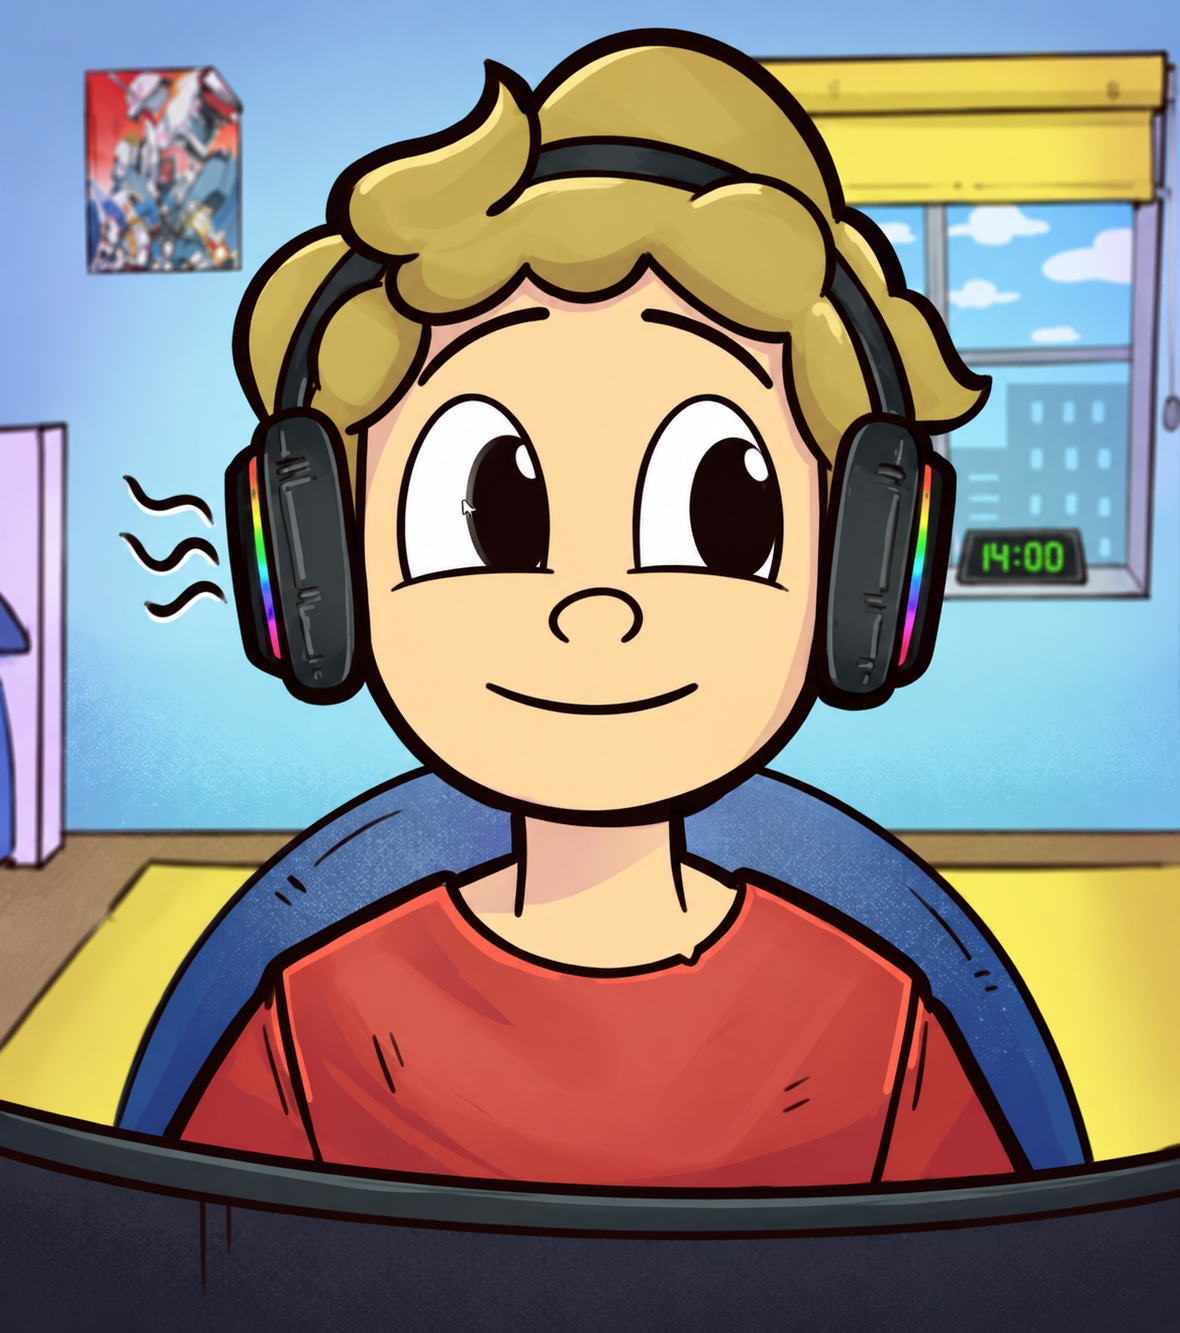
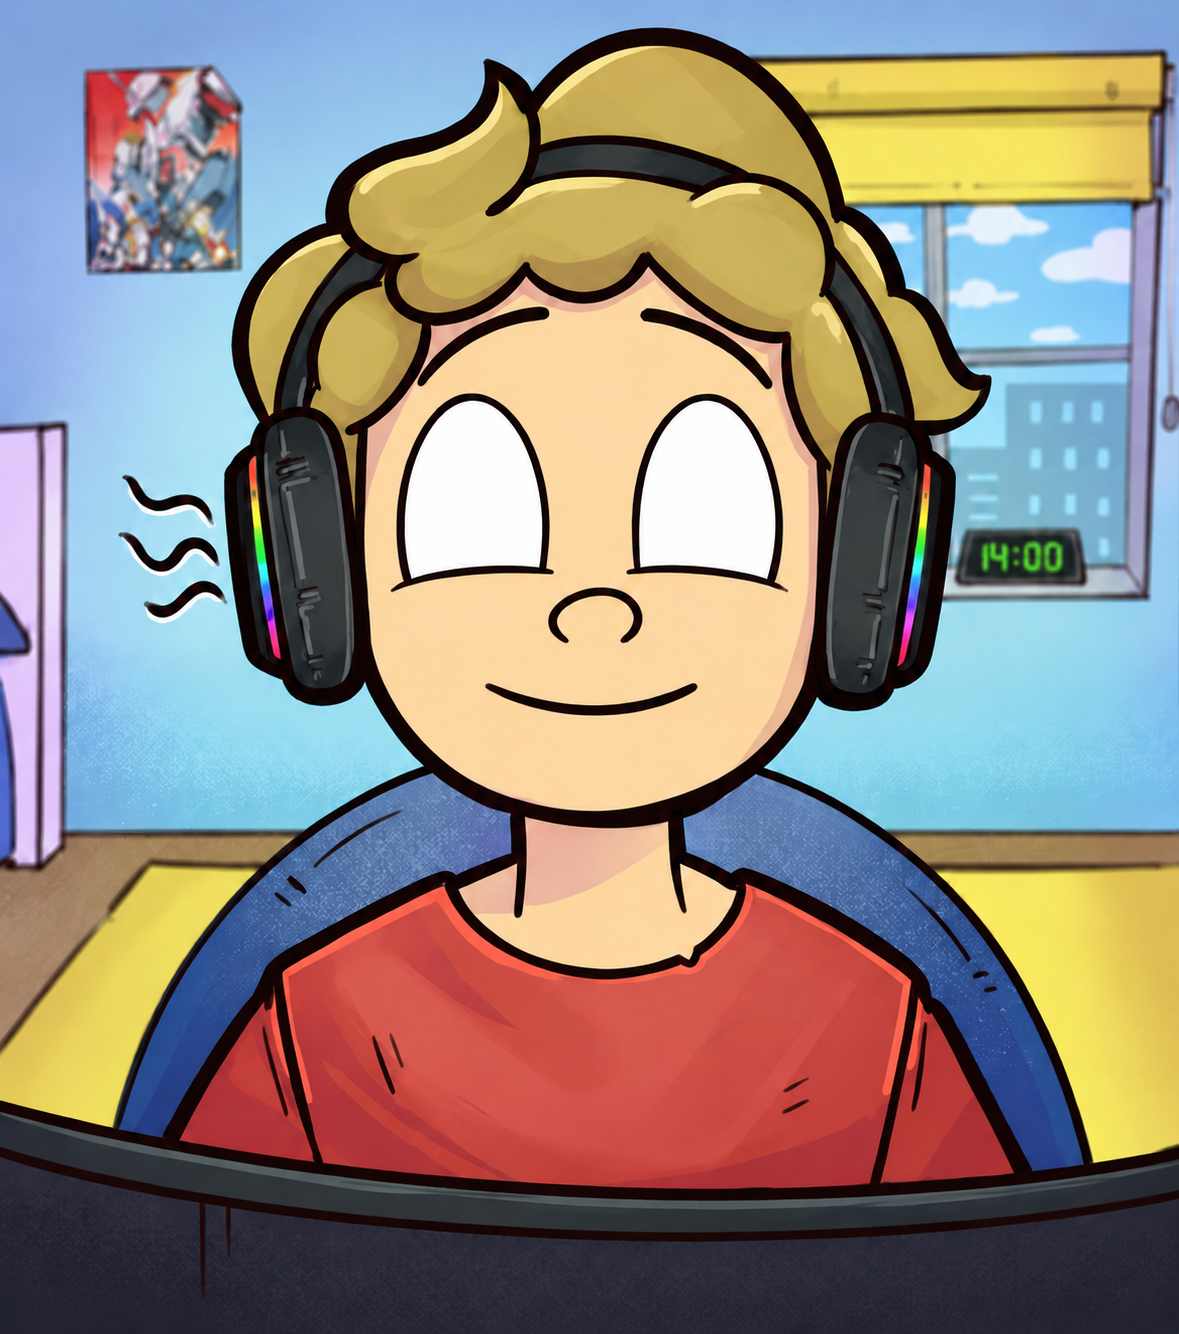
Use pupil-free contact portrait

diff --git a/src/styles.css b/src/styles.css
@@ -326,7 +326,7 @@ img { display: block; max-width: 100%; }
   margin: 0;
   border: 1px solid var(--line);
   background: var(--surface);
-  aspect-ratio: 1180 / 1333;
+  aspect-ratio: 1179 / 1334;
 }
 .tracking-portrait > img {
   width: 100%;
@@ -335,15 +335,14 @@ img { display: block; max-width: 100%; }
 }
 .tracking-portrait__eye {
   position: absolute;
-  top: 30%;
+  top: 29.6%;
   overflow: hidden;
-  width: 11.5%;
-  height: 14%;
+  width: 13.2%;
+  height: 14.7%;
   border-radius: 48% 52% 46% 54%;
-  background: #f7f4ef;
 }
-.tracking-portrait__eye--left { left: 34.75%; transform: rotate(-2deg); }
-.tracking-portrait__eye--right { left: 54.75%; transform: rotate(2deg); }
+.tracking-portrait__eye--left { left: 33.6%; transform: rotate(-2deg); }
+.tracking-portrait__eye--right { left: 53.7%; transform: rotate(2deg); }
 .tracking-portrait__eye i {
   position: absolute;
   top: 50%;
@@ -365,14 +364,6 @@ img { display: block; max-width: 100%; }
   border-radius: 50%;
   background: #fff;
   content: "";
-}
-.tracking-portrait__eye-contour {
-  position: absolute;
-  z-index: 1;
-  inset: 0;
-  border: clamp(2px, 0.2vw, 3px) solid #210d0d;
-  border-radius: inherit;
-  pointer-events: none;
 }
 .contact__footer {
   display: grid;

diff --git a/src/components/TrackingPortrait.test.tsx b/src/components/TrackingPortrait.test.tsx
@@ -109,12 +109,11 @@ describe('TrackingPortrait', () => {
     });
   });
 
-  it('keeps the recreated eye whites behind a visible contour', () => {
-    const { container } = render(<TrackingPortrait alt="Character at a computer" />);
-    const leftEye = container.querySelector<HTMLElement>('.tracking-portrait__eye--left')!;
-    const contour = screen.getByTestId('eye-contour-left');
+  it('uses the eye whites and contours from the supplied artwork', () => {
+    render(<TrackingPortrait alt="Character at a computer" />);
 
-    expect(leftEye.lastElementChild).toBe(contour);
+    expect(screen.queryByTestId('eye-contour-left')).not.toBeInTheDocument();
+    expect(screen.queryByTestId('eye-contour-right')).not.toBeInTheDocument();
   });
 
 });

diff --git a/src/components/TrackingPortrait.tsx b/src/components/TrackingPortrait.tsx
@@ -91,7 +91,6 @@ export function TrackingPortrait({ alt }: TrackingPortraitProps) {
           ref={(node) => { pupilRefs.current[0] = node; }}
           style={{ transform: centeredTransform }}
         />
-        <span className="tracking-portrait__eye-contour" data-testid="eye-contour-left" />
       </span>
       <span
         className="tracking-portrait__eye tracking-portrait__eye--right"
@@ -103,7 +102,6 @@ export function TrackingPortrait({ alt }: TrackingPortraitProps) {
           ref={(node) => { pupilRefs.current[1] = node; }}
           style={{ transform: centeredTransform }}
         />
-        <span className="tracking-portrait__eye-contour" data-testid="eye-contour-right" />
       </span>
     </figure>
   );

diff --git a/docs/superpowers/plans/2026-09-11-contact-portrait-eye-tracking.md b/docs/superpowers/plans/2026-09-11-contact-portrait-eye-tracking.md
@@ -4,7 +4,7 @@
 
 **Goal:** Add the supplied portrait to the contact section, preserve headline dominance with a `1.08` line height, and make layered pupils follow a fine pointer across the full page.
 
-**Architecture:** A focused `TrackingPortrait` component owns the image, centered decorative eye layers, per-eye cursor vectors, viewport-level event handling, animation-frame scheduling, and listener cleanup. `Contact` composes that component into a responsive asymmetric grid while locale files provide the image alternative text. Styling stays in the existing global stylesheet and uses the existing surface, line, spacing, and motion tokens.
+**Architecture:** A focused `TrackingPortrait` component owns the pupil-free image, two pupil-only layers positioned inside the artwork's existing eye contours, per-eye cursor vectors, viewport-level event handling, animation-frame scheduling, and listener cleanup. `Contact` composes that component into a responsive asymmetric grid while locale files provide the image alternative text. Styling stays in the existing global stylesheet and uses the existing surface, line, spacing, and motion tokens.
 
 **Tech Stack:** React 19, TypeScript, CSS/Tailwind v4 utilities, i18next, Vitest, Testing Library.
 
@@ -19,7 +19,7 @@
 
 - [x] **Step 1: Copy the supplied portrait into the public artwork directory**
 
-Copy `C:\Users\Vlad\AppData\Local\Temp\codex-clipboard-dfcf0531-0e10-481b-a10e-16b52e39389a.png` to `public/artworks/contact-portrait.png` without modifying the source file.
+Copy the final pupil-free source `C:\Users\Vlad\AppData\Local\Temp\codex-clipboard-09662688-9472-458b-9d8b-35e58228034f.png` to `public/artworks/contact-portrait.png` without modifying the source file.
 
 - [x] **Step 2: Write failing component tests**
 
@@ -27,11 +27,11 @@ Create tests that render `<TrackingPortrait alt="Character at a computer" />`, a
 
 ```tsx
 expect(screen.getByRole('img', { name: 'Character at a computer' })).toBeInTheDocument();
-fireEvent.pointerMove(screen.getByTestId('tracking-portrait'), { clientX: 1000, clientY: 1000 });
+fireEvent.pointerMove(window, { clientX: 50, clientY: 0, pointerType: 'mouse' });
 expect(screen.getByTestId('pupil-left')).toHaveStyle({
-  transform: 'translate3d(calc(-50% + 8px), calc(-50% + 8px), 0)',
+  transform: 'translate3d(calc(-50% + 1px), calc(-50% + -5px), 0)',
 });
-fireEvent.pointerLeave(screen.getByTestId('tracking-portrait'));
+fireEvent.blur(window);
 expect(screen.getByTestId('pupil-left')).toHaveStyle({
   transform: 'translate3d(-50%, -50%, 0)',
 });
@@ -45,47 +45,75 @@ Expected: FAIL because `TrackingPortrait.tsx` does not exist.
 
 - [x] **Step 4: Implement the minimal component**
 
-Implement a figure with `data-testid="tracking-portrait"`, the portrait image, and two `aria-hidden="true"` eye overlays. Install one window-level pointer listener, bail out unless fine hover matches and reduced motion does not, and reject touch pointer events. In one scheduled animation frame, derive a unit vector from each eye rectangle's center to the cursor, multiply it by the safe `6px` movement radius, and write a direct `translate3d` transform to the matching pupil. Cancel a pending frame during replacement and unmount. Reset both transforms to center on window blur, touch input, or reduced motion.
+Implement a figure with `data-testid="tracking-portrait"`, the pupil-free portrait image, and two `aria-hidden="true"` positioning boxes containing only the pupils. Install one window-level pointer listener, bail out unless fine hover matches and reduced motion does not, and reset on touch pointer events. In one scheduled animation frame, derive a unit vector from each eye rectangle's center to the cursor, multiply it by the safe `5px` movement radius, and write a direct `translate3d` transform to the matching pupil. Cancel a pending frame during replacement and unmount. Reset both transforms to center on window blur, touch input, or reduced motion.
 
 ```tsx
-type TrackingPortraitProps = { alt: string };
+import { useEffect, useRef } from 'react';
+import { assetPath } from '../content/assetPath';
 
-const clamp = (value: number) => Math.max(-1, Math.min(1, value));
+const centeredTransform = 'translate3d(-50%, -50%, 0)';
+const pupilTravel = 5;
 
-export function TrackingPortrait({ alt }: TrackingPortraitProps) {
-  const frameRef = useRef<HTMLElement>(null);
+export function TrackingPortrait({ alt }: { alt: string }) {
+  const eyeRefs = useRef<Array<HTMLSpanElement | null>>([]);
   const pupilRefs = useRef<Array<HTMLElement | null>>([]);
-  const rafRef = useRef<number | null>(null);
+  const animationFrameRef = useRef<number | null>(null);
 
-  const setOffset = (x: number, y: number) => {
-    const transform = x === 0 && y === 0
-      ? 'translate3d(-50%, -50%, 0)'
-      : `translate3d(calc(-50% + ${x}px), calc(-50% + ${y}px), 0)`;
-    pupilRefs.current.forEach((pupil) => {
-      if (pupil) pupil.style.transform = transform;
-    });
-  };
+  useEffect(() => {
+    const resetPupils = () => {
+      if (animationFrameRef.current !== null) cancelAnimationFrame(animationFrameRef.current);
+      animationFrameRef.current = null;
+      pupilRefs.current.forEach((pupil) => {
+        if (pupil) pupil.style.transform = centeredTransform;
+      });
+    };
 
-  const handlePointerMove = (event: React.PointerEvent<HTMLElement>) => {
-    if (!window.matchMedia('(hover: hover) and (pointer: fine)').matches ||
-        window.matchMedia('(prefers-reduced-motion: reduce)').matches) return;
-    const rect = event.currentTarget.getBoundingClientRect();
-    const x = clamp((event.clientX - (rect.left + rect.width / 2)) / (rect.width / 2));
-    const y = clamp((event.clientY - (rect.top + rect.height / 2)) / (rect.height / 2));
-    if (rafRef.current !== null) cancelAnimationFrame(rafRef.current);
-    rafRef.current = requestAnimationFrame(() => setOffset(Math.round(x * 8), Math.round(y * 8)));
-  };
+    const handlePointerMove = (event: PointerEvent) => {
+      const canTrack = event.pointerType !== 'touch'
+        && window.matchMedia('(hover: hover) and (pointer: fine)').matches
+        && !window.matchMedia('(prefers-reduced-motion: reduce)').matches;
+      if (!canTrack) return resetPupils();
+      if (animationFrameRef.current !== null) cancelAnimationFrame(animationFrameRef.current);
+      animationFrameRef.current = requestAnimationFrame(() => {
+        eyeRefs.current.forEach((eye, index) => {
+          const pupil = pupilRefs.current[index];
+          if (!eye || !pupil) return;
+          const rect = eye.getBoundingClientRect();
+          const x = event.clientX - (rect.left + rect.width / 2);
+          const y = event.clientY - (rect.top + rect.height / 2);
+          const distance = Math.hypot(x, y);
+          const offsetX = distance === 0 ? 0 : Math.round((x / distance) * pupilTravel);
+          const offsetY = distance === 0 ? 0 : Math.round((y / distance) * pupilTravel);
+          pupil.style.transform = offsetX === 0 && offsetY === 0
+            ? centeredTransform
+            : `translate3d(calc(-50% + ${offsetX}px), calc(-50% + ${offsetY}px), 0)`;
+        });
+        animationFrameRef.current = null;
+      });
+    };
 
-  useEffect(() => () => {
-    if (rafRef.current !== null) cancelAnimationFrame(rafRef.current);
+    window.addEventListener('pointermove', handlePointerMove);
+    window.addEventListener('blur', resetPupils);
+    return () => {
+      window.removeEventListener('pointermove', handlePointerMove);
+      window.removeEventListener('blur', resetPupils);
+      if (animationFrameRef.current !== null) cancelAnimationFrame(animationFrameRef.current);
+    };
   }, []);
 
   return (
-    <figure ref={frameRef} data-testid="tracking-portrait" className="tracking-portrait"
-      onPointerMove={handlePointerMove} onPointerLeave={() => setOffset(0, 0)}>
-      <img src="/artworks/contact-portrait.png" alt={alt} />
-      <span className="tracking-portrait__eye tracking-portrait__eye--left" aria-hidden="true"><i ref={(node) => { pupilRefs.current[0] = node; }} /></span>
-      <span className="tracking-portrait__eye tracking-portrait__eye--right" aria-hidden="true"><i ref={(node) => { pupilRefs.current[1] = node; }} /></span>
+    <figure className="tracking-portrait" data-testid="tracking-portrait">
+      <img src={assetPath('/artworks/contact-portrait.png')} alt={alt} />
+      <span className="tracking-portrait__eye tracking-portrait__eye--left" aria-hidden="true"
+        ref={(node) => { eyeRefs.current[0] = node; }}>
+        <i data-testid="pupil-left" ref={(node) => { pupilRefs.current[0] = node; }}
+          style={{ transform: centeredTransform }} />
+      </span>
+      <span className="tracking-portrait__eye tracking-portrait__eye--right" aria-hidden="true"
+        ref={(node) => { eyeRefs.current[1] = node; }}>
+        <i data-testid="pupil-right" ref={(node) => { pupilRefs.current[1] = node; }}
+          style={{ transform: centeredTransform }} />
+      </span>
     </figure>
   );
 }
@@ -157,16 +185,16 @@ Use an asymmetric grid and existing tokens:
   margin: 0;
   border: 1px solid var(--line);
   background: var(--surface);
-  aspect-ratio: 1180 / 1333;
+  aspect-ratio: 1179 / 1334;
 }
-.tracking-portrait > img { width: 100%; height: 100%; object-fit: cover; filter: saturate(.82) brightness(.86); }
-.tracking-portrait__eye { position: absolute; width: 10%; height: 13%; border-radius: 50%; background: #f7f4ef; }
-.tracking-portrait__eye--left { left: 36.5%; top: 31.4%; }
-.tracking-portrait__eye--right { left: 55.3%; top: 31.4%; }
+.tracking-portrait > img { width: 100%; height: 100%; object-fit: cover; }
+.tracking-portrait__eye { position: absolute; top: 29.6%; overflow: hidden; width: 13.2%; height: 14.7%; border-radius: 48% 52% 46% 54%; }
+.tracking-portrait__eye--left { left: 33.6%; transform: rotate(-2deg); }
+.tracking-portrait__eye--right { left: 53.7%; transform: rotate(2deg); }
 .tracking-portrait__eye i {
   position: absolute;
   left: 50%; top: 50%;
-  width: 58%; height: 72%;
+  width: 52%; height: 68%;
   border-radius: 50%;
   background: #210d0d;
   transform: translate3d(-50%, -50%, 0);
@@ -181,7 +209,7 @@ Use an asymmetric grid and existing tokens:
 }
 ```
 
-Tune only the eye overlay percentages during visual QA so the centered layers cover the baked-in pupils without changing the overall composition.
+Tune only the transparent eye positioning boxes during visual QA; do not recreate or cover the pupil-free artwork's eye whites or contours.
 
 - [x] **Step 5: Run contact and portrait tests**
 

diff --git a/docs/superpowers/specs/2026-09-11-contact-portrait-eye-tracking-design.md b/docs/superpowers/specs/2026-09-11-contact-portrait-eye-tracking-design.md
@@ -20,7 +20,7 @@ Keep the existing translated headline text and explicit Russian line breaks. Inc
 
 Store the supplied image as a local public asset and render it with a translated, descriptive alternative text. The image itself remains unchanged outside the eye regions.
 
-Because the pupils are baked into the raster image, cover each eye area with a carefully matched eye-white layer centered in the original socket and render a centered dark pupil with a small highlight above it. Listen for pointer movement across the full browser window. For each eye independently, calculate the unit vector from that eye's on-screen center to the cursor and apply a clamped offset along that vector. This makes the two gaze lines converge naturally on the cursor while each pupil remains inside its eye.
+Use the supplied pupil-free portrait as the base artwork, preserving its original eye whites and dark contours. Render only a centered dark pupil with a small highlight inside each existing eye. Listen for pointer movement across the full browser window. For each eye independently, calculate the unit vector from that eye's on-screen center to the cursor and apply a clamped offset along that vector. This makes the two gaze lines converge naturally on the cursor while each pupil remains inside its eye.
 
 Use `requestAnimationFrame` to coalesce pointer updates and write transforms directly to the two pupil elements. Reset the pupils to center when the browser window loses focus. The window-level listener must be removed on unmount. Do not attach a high-frequency React state update or drive child transforms through parent CSS variables.
 
@@ -45,4 +45,4 @@ Visual QA covers desktop and mobile widths, headline spacing, hierarchy, image c
 
 ## Out of Scope
 
-No change is made to the contact wording, ArtStation destination, global typography, project gallery, or other page sections. The source artwork is not otherwise redrawn or replaced.
+No change is made to the contact wording, ArtStation destination, global typography, project gallery, or other page sections. The supplied pupil-free source artwork is used without redrawing its eye whites or contours.
